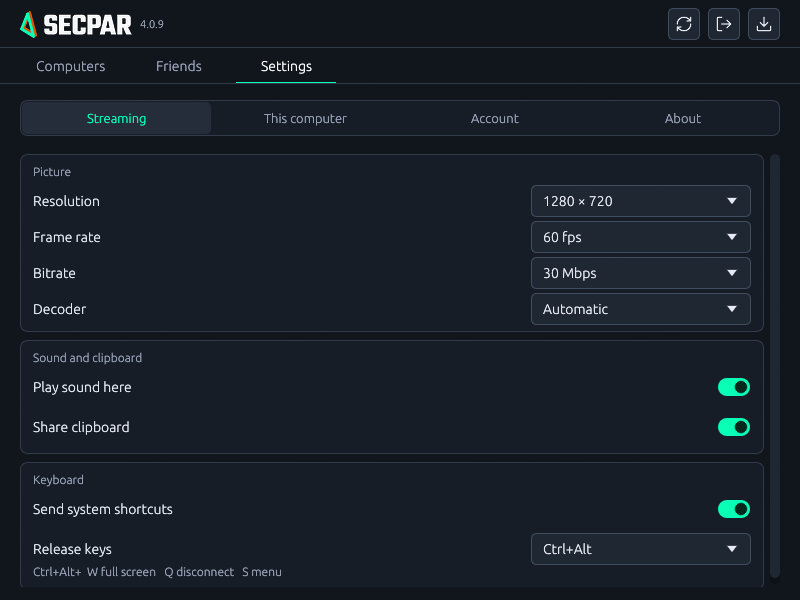
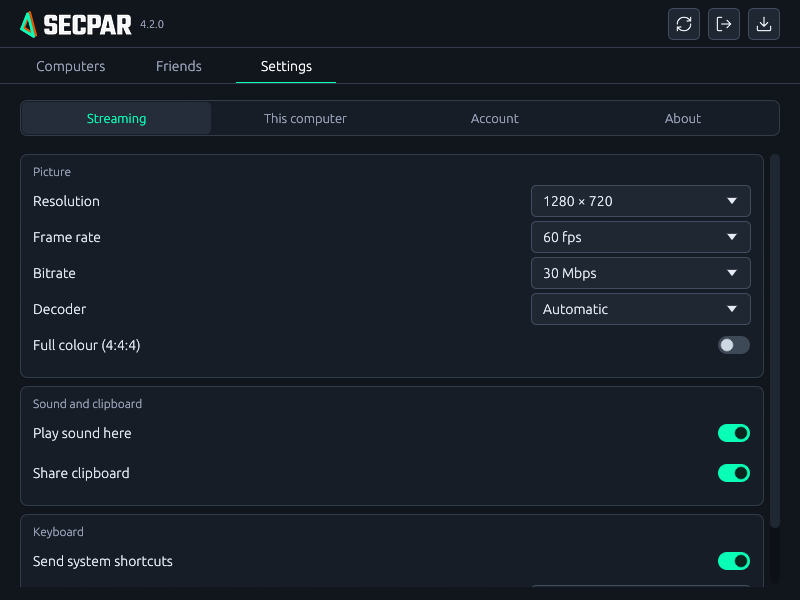
Site: Secpar 4.2.0 [skip ci]
Downloads point at 4.2.0. Screens, full colour, the virtual display and the
Linux lock screen are described on the home page, help page and README, with
new screenshots of Computers, the stream menu and both settings pages.

diff --git a/cloud/site/public/help/index.html b/cloud/site/public/help/index.html
@@ -2,13 +2,13 @@
 <html lang="en"><head><meta charset="utf-8"><meta name="viewport" content="width=device-width,initial-scale=1"><title>Secpar help</title><meta name="description" content="Connect to your computers, add friends, use the stream menu and fix common problems in Secpar."><link rel="canonical" href="https://secpar.win/help/"><link rel="icon" href="/assets/secpar-icon.svg" type="image/svg+xml"><link rel="stylesheet" href="/style.css"><link rel="stylesheet" href="/help/help.css"></head>
 <body><a class="skip" href="#main">Skip to content</a><header class="nav wrap"><a class="brand" href="/" aria-label="Secpar home"><img src="/assets/secpar-wordmark.svg" width="151" height="36" alt="Secpar"></a><nav aria-label="Main navigation"><a href="/blog/">Blog</a><a href="/help/" aria-current="page">Help</a><a href="/#downloads">Download</a></nav></header>
 <main id="main" class="wrap help-layout"><aside><h1>Help</h1><nav aria-label="Help topics"><a href="#connect">Connect</a><a href="#friends">Friends</a><a href="#stream">During a stream</a><a href="#files">Files and clipboard</a><a href="#power">Power</a><a href="#this-computer">This computer</a><a href="#linux-hosting">Linux hosting</a><a href="#playback">Playback</a><a href="#updates">Updates and errors</a></nav></aside><article>
-<section id="connect"><h2>Connect to your computer</h2><p>Install Secpar on each computer and on your phone, and sign in with the same account on all of them. Each computer you sign in on appears under <strong>Computers</strong> on your other devices, with a still of its screen. Select a computer to connect. Under each computer you see who is using it now. The list updates by itself as computers come online and people connect.</p><figure class="shot"><img src="/assets/help/computers.png" width="800" height="600" loading="lazy" alt="Computers tab with four tiles: two of your computers, one with a still of its screen, and two friends' computers"><figcaption>Computers. Your computers come first, then friends' computers with the friend's username.</figcaption></figure><p>Windows and Linux use one app to host and to connect. The Android app connects to computers; it does not host. Up to three devices can stream from one computer at the same time.</p><p>Secpar connects directly when it can, on your home network or across the internet, and goes through Secpar's relay when a direct route is blocked.</p><p>Below your computers, <strong>Connected to this computer</strong> shows who is using it now, with <strong>Disconnect</strong> to end a session. <strong>Paired devices</strong> lists the devices that may use this computer; click its title to fold it away. <strong>Remove</strong> stops a device connecting at all.</p></section>
+<section id="connect"><h2>Connect to your computer</h2><p>Install Secpar on each computer and on your phone, and sign in with the same account on all of them. Each computer you sign in on appears under <strong>Computers</strong> on your other devices, with a still of its screen. Select a computer to connect. Under each computer you see who is using it now. The list updates by itself as computers come online and people connect.</p><figure class="shot"><img src="/assets/help/computers.png" width="800" height="600" loading="lazy" alt="Computers tab with four tiles: two of your computers, one with a still of its screen, and two friends' computers. Below them, who is connected to this computer and its paired devices"><figcaption>Computers. Your computers come first, then friends' computers with the friend's username.</figcaption></figure><p>Windows and Linux use one app to host and to connect. The Android app connects to computers; it does not host. Up to three devices can stream from one computer at the same time.</p><p>Secpar connects directly when it can, on your home network or across the internet, and goes through Secpar's relay when a direct route is blocked.</p><p>Below your computers, <strong>Connected to this computer</strong> shows who is using it now, with <strong>Disconnect</strong> to end a session. <strong>Paired devices</strong> lists the devices that may use this computer; click its title to fold it away. <strong>Remove</strong> stops a device connecting at all.</p></section>
 <section id="friends"><h2>Friends</h2><p>Your username is on the <strong>Friends</strong> tab. To add someone, type their username and select <strong>Add</strong>. They accept the request on their side. Friends are kept on your account, so they show on every device you sign in on.</p><p>For each friend you choose:</p><ul><li><strong>Ask first</strong> or <strong>Any time</strong>: whether you approve each connection.</li><li>Keyboard, mouse and files: the three buttons beside the friend. A highlighted button is allowed. Files lets the friend browse your files, not only send to them. Keyboard and mouse changes reach a friend who is already connected within a few seconds.</li></ul><figure class="shot"><img src="/assets/help/friends.png" width="800" height="600" loading="lazy" alt="Friends tab showing a friend with the Ask first menu and keyboard, mouse and files buttons"><figcaption>Friends. The three buttons after Ask first are keyboard, mouse and files.</figcaption></figure><p>Your friends' computers appear under Computers. Select one to connect: Secpar asks for whatever its owner allows. With Ask first, the owner approves once, from the notification or from the Secpar window. When a friend starts using your computer, your desktop tells you. Both computers need Secpar 4.0.12 or later and must be signed in to their owners' accounts. If a friend turns off previews, you see their computer without a still of its screen.</p></section>
-<section id="stream"><h2>During a stream</h2><p>On a computer, the stream opens in a window shaped like the remote screen at half its size, and the window goes back to its own size when you disconnect. Shortcuts use the release keys set in <strong>Settings › Streaming</strong> (Ctrl + Alt unless you change them):</p><ul><li>Release keys + W: full screen or window.</li><li>Release keys + S: stream menu. You can also select the Secpar triangle at the top left of the stream.</li><li>Release keys + Q: disconnect.</li></ul><p>In full screen the mouse and keyboard go to the remote computer. <strong>Send system shortcuts</strong> decides whether keys such as Alt + Tab go there too.</p><p>On Android, the floating button opens the stream menu: keyboard, trackpad mode, controllers and disconnect. A docked keyboard and mouse work directly.</p><figure class="shot"><img src="/assets/help/stream-menu.png" width="340" height="356" loading="lazy" alt="Stream menu with Fullscreen, Decoder, Resolution, Share clipboard, Stream stats, Audio, Help and Disconnect"><figcaption>The stream menu on a computer.</figcaption></figure></section>
+<section id="stream"><h2>During a stream</h2><p>On a computer, the stream opens in a window shaped like the remote screen at half its size, and the window goes back to its own size when you disconnect. Shortcuts use the release keys set in <strong>Settings › Streaming</strong> (Ctrl + Alt unless you change them):</p><ul><li>Release keys + W: full screen or window.</li><li>Release keys + S: stream menu. You can also select the Secpar triangle at the top left of the stream.</li><li>Release keys + Q: disconnect.</li></ul><p>In full screen the mouse and keyboard go to the remote computer. <strong>Send system shortcuts</strong> decides whether keys such as Alt + Tab go there too.</p><p>When the computer has more than one screen, <strong>Switch display</strong> in the stream menu picks the one you see. On a computer, <strong>Open in a new window</strong> under it shows another screen in a second window, so you can see two at once.</p><p>On Android, the floating button opens the stream menu: keyboard, trackpad mode, controllers and disconnect. A docked keyboard and mouse work directly.</p><figure class="shot"><img src="/assets/help/stream-menu.png" width="334" height="390" loading="lazy" alt="Stream menu with Fullscreen, Decoder, Resolution, Switch display, Share clipboard, Stream stats, Audio, Help and Disconnect"><figcaption>The stream menu on a computer.</figcaption></figure></section>
 <section id="files"><h2>Files and clipboard</h2><p>Select the folder button on a computer's tile to browse its files and copy files either way. You can also drop files onto that window to send them.</p><figure class="shot"><img src="/assets/help/files.png" width="800" height="600" loading="lazy" alt="Files window listing folders on a computer, with two downloads in progress and an Upload files button"><figcaption>Files. Downloads save to the folder shown at the bottom; Change picks another.</figcaption></figure><p>Text copied on one device can be pasted on the other while you are connected. Turn this off with <strong>Share clipboard</strong> in Settings › Streaming on the connecting device, or in Settings › This computer on the host.</p></section>
 <section id="power"><h2>Power</h2><p>From Android, open the menu on a computer's tile to lock it, put it to sleep, sign out, restart or shut it down. This works on Windows and Linux computers you own. Friends cannot use it.</p></section>
-<section id="this-computer"><h2>This computer</h2><p><strong>Settings › This computer</strong> controls hosting on the computer you are using:</p><ul><li><strong>Picture</strong>: a quality limit that caps the resolution and frame rate a device may ask for, the encoder and its preset. NVIDIA graphics on Windows offer presets P1 (fastest) to P7 (best quality). On Windows you can also pick the display. Linux has <strong>Show host cursor</strong>: turn it off and the connecting device draws the pointer, which follows the mouse without delay but is always an arrow. Windows always works that way.</li><li><strong>Who can use it</strong>: receiving files, sharing the clipboard and <strong>Show desktop preview thumbnail</strong>. With it off, no device or friend gets a still of your screen.</li><li><strong>Start in tray</strong>: open Secpar in the tray when you sign in, so this computer can be reached.</li></ul><figure class="shot"><img src="/assets/help/settings-this-computer.png" width="800" height="600" loading="lazy" alt="Settings, This computer: name, status, hosting account, then Picture with display, encoder and preset, and Who can use it"><figcaption>Settings › This computer on Windows.</figcaption></figure><p>Hosting runs while Secpar is open or in the tray. <strong>Quit Secpar</strong> in the tray menu ends hosting; <strong>Restart Secpar</strong> starts it again.</p></section>
-<section id="linux-hosting"><h2>Linux hosting</h2><p>Keep the Linux computer signed in to its desktop. The first time a device connects, your desktop asks whether to allow screen sharing and remote control. On KDE Plasma this is <strong>Remote Control Requested</strong>. Select <strong>Allow</strong>, with <strong>Allow the application to do this without asking next time</strong> ticked, so later connections do not wait for it.</p><p>The AppImage runs on most x86-64 distributions. Run it once with <code>--install</code> to add Secpar to your app menu. Router ports (UPnP) are available on Windows only.</p></section>
-<section id="playback"><h2>Choppy video or no sound</h2><p>In <strong>Settings › Streaming</strong>, lower the resolution, frame rate or bitrate. If video stutters on a computer with an older graphics card, set <strong>Decoder</strong> to Software.</p><figure class="shot"><img src="/assets/help/settings-streaming.png" width="800" height="600" loading="lazy" alt="Settings, Streaming: resolution, frame rate, bitrate, decoder, sound and clipboard, and keyboard options"><figcaption>Settings › Streaming.</figcaption></figure><p>If there is no sound, check that <strong>Play sound here</strong> is on and that the right speakers are selected in your system's sound settings.</p></section>
+<section id="this-computer"><h2>This computer</h2><p><strong>Settings › This computer</strong> controls hosting on the computer you are using:</p><ul><li><strong>Picture</strong>: a quality limit that caps the resolution and frame rate a device may ask for, the encoder and its preset. NVIDIA graphics on Windows offer presets P1 (fastest) to P7 (best quality). On Windows you can also pick the display. Linux has <strong>Show host cursor</strong>: turn it off and the connecting device draws the pointer, which follows the mouse without delay but is always an arrow. Windows always works that way.</li><li><strong>Virtual display</strong> (Windows): adds a screen that exists only for streaming, for a computer with no monitor or to stream a second screen. <strong>Virtual display size</strong> sets its resolution. Turn it off to remove the screen.</li><li><strong>Who can use it</strong>: receiving files, sharing the clipboard and <strong>Show desktop preview thumbnail</strong>. With it off, no device or friend gets a still of your screen.</li><li><strong>Start in tray</strong>: open Secpar in the tray when you sign in, so this computer can be reached.</li></ul><figure class="shot"><img src="/assets/help/settings-this-computer.png" width="800" height="600" loading="lazy" alt="Settings, This computer: name, status, hosting account, then Picture with display, virtual display and its size, quality limit, encoder and preset"><figcaption>Settings › This computer on Windows.</figcaption></figure><p>Hosting runs while Secpar is open or in the tray. <strong>Quit Secpar</strong> in the tray menu ends hosting; <strong>Restart Secpar</strong> starts it again.</p></section>
+<section id="linux-hosting"><h2>Linux hosting</h2><p>Keep the Linux computer signed in to its desktop. The first time a device connects, your desktop asks whether to allow screen sharing and remote control. On KDE Plasma this is <strong>Remote Control Requested</strong>. Select <strong>Allow</strong>, with <strong>Allow the application to do this without asking next time</strong> ticked, so later connections do not wait for it.</p><p>When the Linux computer is locked, the lock screen still shows and you can type your password from your own devices. Friends cannot use the lock screen. This needs write access to <code>/dev/uinput</code>, the same access controllers use.</p><p>The AppImage runs on most x86-64 distributions. Run it once with <code>--install</code> to add Secpar to your app menu. Router ports (UPnP) are available on Windows only.</p></section>
+<section id="playback"><h2>Choppy video or no sound</h2><p>In <strong>Settings › Streaming</strong>, lower the resolution, frame rate or bitrate. If video stutters on a computer with an older graphics card, set <strong>Decoder</strong> to Software.</p><figure class="shot"><img src="/assets/help/settings-streaming.png" width="800" height="600" loading="lazy" alt="Settings, Streaming: resolution, frame rate, bitrate, decoder, Full colour, sound and clipboard, and keyboard options"><figcaption>Settings › Streaming.</figcaption></figure><p><strong>Full colour (4:4:4)</strong> keeps coloured text and thin lines sharp. It sends about twice the video, so turn it off on a slow connection. Both devices need Secpar 4.2.0 or later.</p><p>If there is no sound, check that <strong>Play sound here</strong> is on and that the right speakers are selected in your system's sound settings.</p></section>
 <section id="updates"><h2>Updates and errors</h2><p>The download button at the top of the app shows when an update is available. Opening it checks again, and Secpar also checks every hour. Updating Windows restarts hosting, which ends any stream from that computer.</p><p>When a connection fails, the message shows above the computers. The copy button next to it copies the details. Include them, the app version and both devices' systems when you <a href="https://github.com/modnite/Secpar/issues">report an issue ↗</a>. Do not share passwords.</p><p><a href="https://github.com/modnite/Secpar/releases">Releases and checksums ↗</a></p></section>
 </article></main><footer class="wrap"><a href="/">Secpar</a><p><a href="https://github.com/modnite/Secpar">Source</a> · GPL-3.0</p></footer></body></html>

diff --git a/cloud/site/public/index.html b/cloud/site/public/index.html
@@ -24,16 +24,16 @@
       <div class="product">
         <div class="product-heading"><span>Secpar for desktop</span><span class="sample">Interface preview</span></div>
         <div class="product-stage">
-          <img class="app-preview" src="/assets/desktop-preview.png" width="800" height="600" alt="Secpar Computers tab with four tiles: two of your computers, one with a still of its screen, and two friends' computers">
+          <img class="app-preview" src="/assets/desktop-preview.png" width="800" height="600" alt="Secpar Computers tab with four tiles: two of your computers, one with a still of its screen, and two friends' computers. Below them, who is connected to this computer and its paired devices">
         </div>
       </div>
     </section>
     <section id="downloads" class="downloads wrap">
       <div class="section-heading"><h2>Downloads</h2></div>
       <div class="download-list">
-        <article class="download-row"><div class="os-mark" aria-hidden="true"><svg viewBox="0 0 24 24"><path d="M3 4h8v7H3zm10 0h8v7h-8zM3 13h8v7H3zm10 0h8v7h-8z"/></svg></div><div class="os-info"><h3>Windows</h3><p>Host + client</p></div><span class="release-version" data-version="windows">4.1.4</span><a class="button outline download" data-download="windows" href="https://github.com/modnite/Secpar/releases/download/v4.1.4/Secpar-Windows-x64-setup.exe">Download <span class="format">.exe</span><span aria-hidden="true">↘</span></a></article>
-        <article class="download-row"><div class="os-mark line" aria-hidden="true"><svg viewBox="0 0 24 24"><rect x="2" y="3" width="20" height="18" rx="2"/><path d="m6 8 4 4-4 4m7 0h5"/></svg></div><div class="os-info"><h3>Linux</h3><p>Host + client · x86-64 AppImage</p></div><span class="release-version" data-version="linux">4.1.4</span><a class="button outline download" data-download="linux" href="https://github.com/modnite/Secpar/releases/download/v4.1.4/Secpar-Linux-x64.AppImage">Download <span class="format">.AppImage</span><span aria-hidden="true">↘</span></a></article>
-        <article class="download-row"><div class="os-mark line" aria-hidden="true"><svg viewBox="0 0 24 24"><rect x="6" y="2" width="12" height="20" rx="2"/><path d="M10 18h4"/></svg></div><div class="os-info"><h3>Android</h3><p>Client</p></div><span class="release-version" data-version="android">4.1.4</span><a class="button outline download" data-download="android" href="https://github.com/modnite/Secpar/releases/download/v4.1.4/Secpar.apk">Download <span class="format">.apk</span><span aria-hidden="true">↘</span></a></article>
+        <article class="download-row"><div class="os-mark" aria-hidden="true"><svg viewBox="0 0 24 24"><path d="M3 4h8v7H3zm10 0h8v7h-8zM3 13h8v7H3zm10 0h8v7h-8z"/></svg></div><div class="os-info"><h3>Windows</h3><p>Host + client</p></div><span class="release-version" data-version="windows">4.2.0</span><a class="button outline download" data-download="windows" href="https://github.com/modnite/Secpar/releases/download/v4.2.0/Secpar-Windows-x64-setup.exe">Download <span class="format">.exe</span><span aria-hidden="true">↘</span></a></article>
+        <article class="download-row"><div class="os-mark line" aria-hidden="true"><svg viewBox="0 0 24 24"><rect x="2" y="3" width="20" height="18" rx="2"/><path d="m6 8 4 4-4 4m7 0h5"/></svg></div><div class="os-info"><h3>Linux</h3><p>Host + client · x86-64 AppImage</p></div><span class="release-version" data-version="linux">4.2.0</span><a class="button outline download" data-download="linux" href="https://github.com/modnite/Secpar/releases/download/v4.2.0/Secpar-Linux-x64.AppImage">Download <span class="format">.AppImage</span><span aria-hidden="true">↘</span></a></article>
+        <article class="download-row"><div class="os-mark line" aria-hidden="true"><svg viewBox="0 0 24 24"><rect x="6" y="2" width="12" height="20" rx="2"/><path d="M10 18h4"/></svg></div><div class="os-info"><h3>Android</h3><p>Client</p></div><span class="release-version" data-version="android">4.2.0</span><a class="button outline download" data-download="android" href="https://github.com/modnite/Secpar/releases/download/v4.2.0/Secpar.apk">Download <span class="format">.apk</span><span aria-hidden="true">↘</span></a></article>
       </div>
       <p class="release-note">Linux hosting needs a signed-in desktop session. It is tested on KDE Plasma.</p>
       <a class="text-link" href="https://github.com/modnite/Secpar/releases">Release notes &amp; checksums <span aria-hidden="true">↗</span></a>
@@ -48,6 +48,8 @@
         <li><h3>Your computers</h3><p>Every computer signed in to your account, with a still of its screen and who is using it. Up to three devices can stream from one computer at once.</p></li>
         <li><h3>Friends</h3><p>Add friends by username and select their computers to connect. For each friend, choose Ask first or Any time, and allow keyboard, mouse and files separately.</p></li>
         <li><h3>Files and clipboard</h3><p>Browse a computer's files and copy them either way. Text you copy is shared while you are connected.</p></li>
+        <li><h3>Screens</h3><p>Switch between a computer's screens, or open another screen in its own window. Windows computers with no monitor can add a virtual screen at the size you choose.</p></li>
+        <li><h3>Full colour</h3><p>Turn on Full colour (4:4:4) for sharper coloured text. It sends about twice the video.</p></li>
         <li><h3>Sound and controllers</h3><p>Sound from the computer plays on the device you connect from. Controllers on your phone or computer work on the remote computer.</p></li>
         <li><h3>Power</h3><p>Lock, sleep, sign out, restart or shut down your computers from your phone.</p></li>
         <li><h3>Privacy</h3><p>Turn off previews and no device or friend gets a still of your screen.</p></li>

diff --git a/README.md b/README.md
@@ -21,6 +21,10 @@ Each package is one app. On Windows and Linux the same app hosts this computer a
 - **Computers.** Every computer signed in to your account, with a still of its screen and who is using it. Paired devices are listed beneath, with Disconnect and Remove. Connect directly on your network or across the internet, or through Secpar's relay when a direct route is blocked. Up to three devices can stream from one computer at once.
 - **Friends.** Add people by username and select their computers to connect. For each friend, choose Ask first or Any time, and allow keyboard, mouse and file browsing separately; Ask first needs one approval, from the notification or the app. Keyboard and mouse changes reach a connected friend within seconds. Friends are kept on your account, so they follow you to every device.
 - **Files and clipboard.** Browse a computer's files and copy them either way. Copied text is shared while you are connected.
+- **Screens.** Switch between a computer's screens from the stream menu, or open another screen in its own window. On Windows, a virtual display adds a screen for a computer with no monitor, at the size you pick in Settings › This computer.
+- **Full colour.** Full colour (4:4:4) in Settings › Streaming keeps coloured text sharp, for about twice the video.
+- **Relay.** When a network blocks the relay's usual UDP traffic, Secpar reaches it over TLS on port 443.
+- **Lock screen.** You can sign in at a locked Windows or Linux computer from your own devices. Friends cannot.
 - **Sound and controllers.** The computer's sound plays on the connecting device, and controllers attached to that device work on the computer.
 - **Power.** Lock, sleep, sign out, restart or shut down your computers from Android.
 - **Privacy.** Turn off previews and no device or friend gets a still of your screen.
@@ -30,7 +34,8 @@ The [help page](https://secpar.win/help/) covers setup, the stream menu, setting
 
 ## Limits
 
-- Linux hosting needs a signed-in desktop session. It is tested on KDE Plasma (Wayland). The desktop asks once for permission to share the screen.
+- Linux hosting needs a signed-in desktop session. It is tested on KDE Plasma (Wayland). The desktop asks once for permission to share the screen. Typing at the Linux lock screen needs write access to `/dev/uinput`.
+- The virtual display is available on Windows only.
 - Router ports (UPnP) are available on Windows only.
 - Android connects to computers; it does not host.
 - macOS and iOS are not supported.
